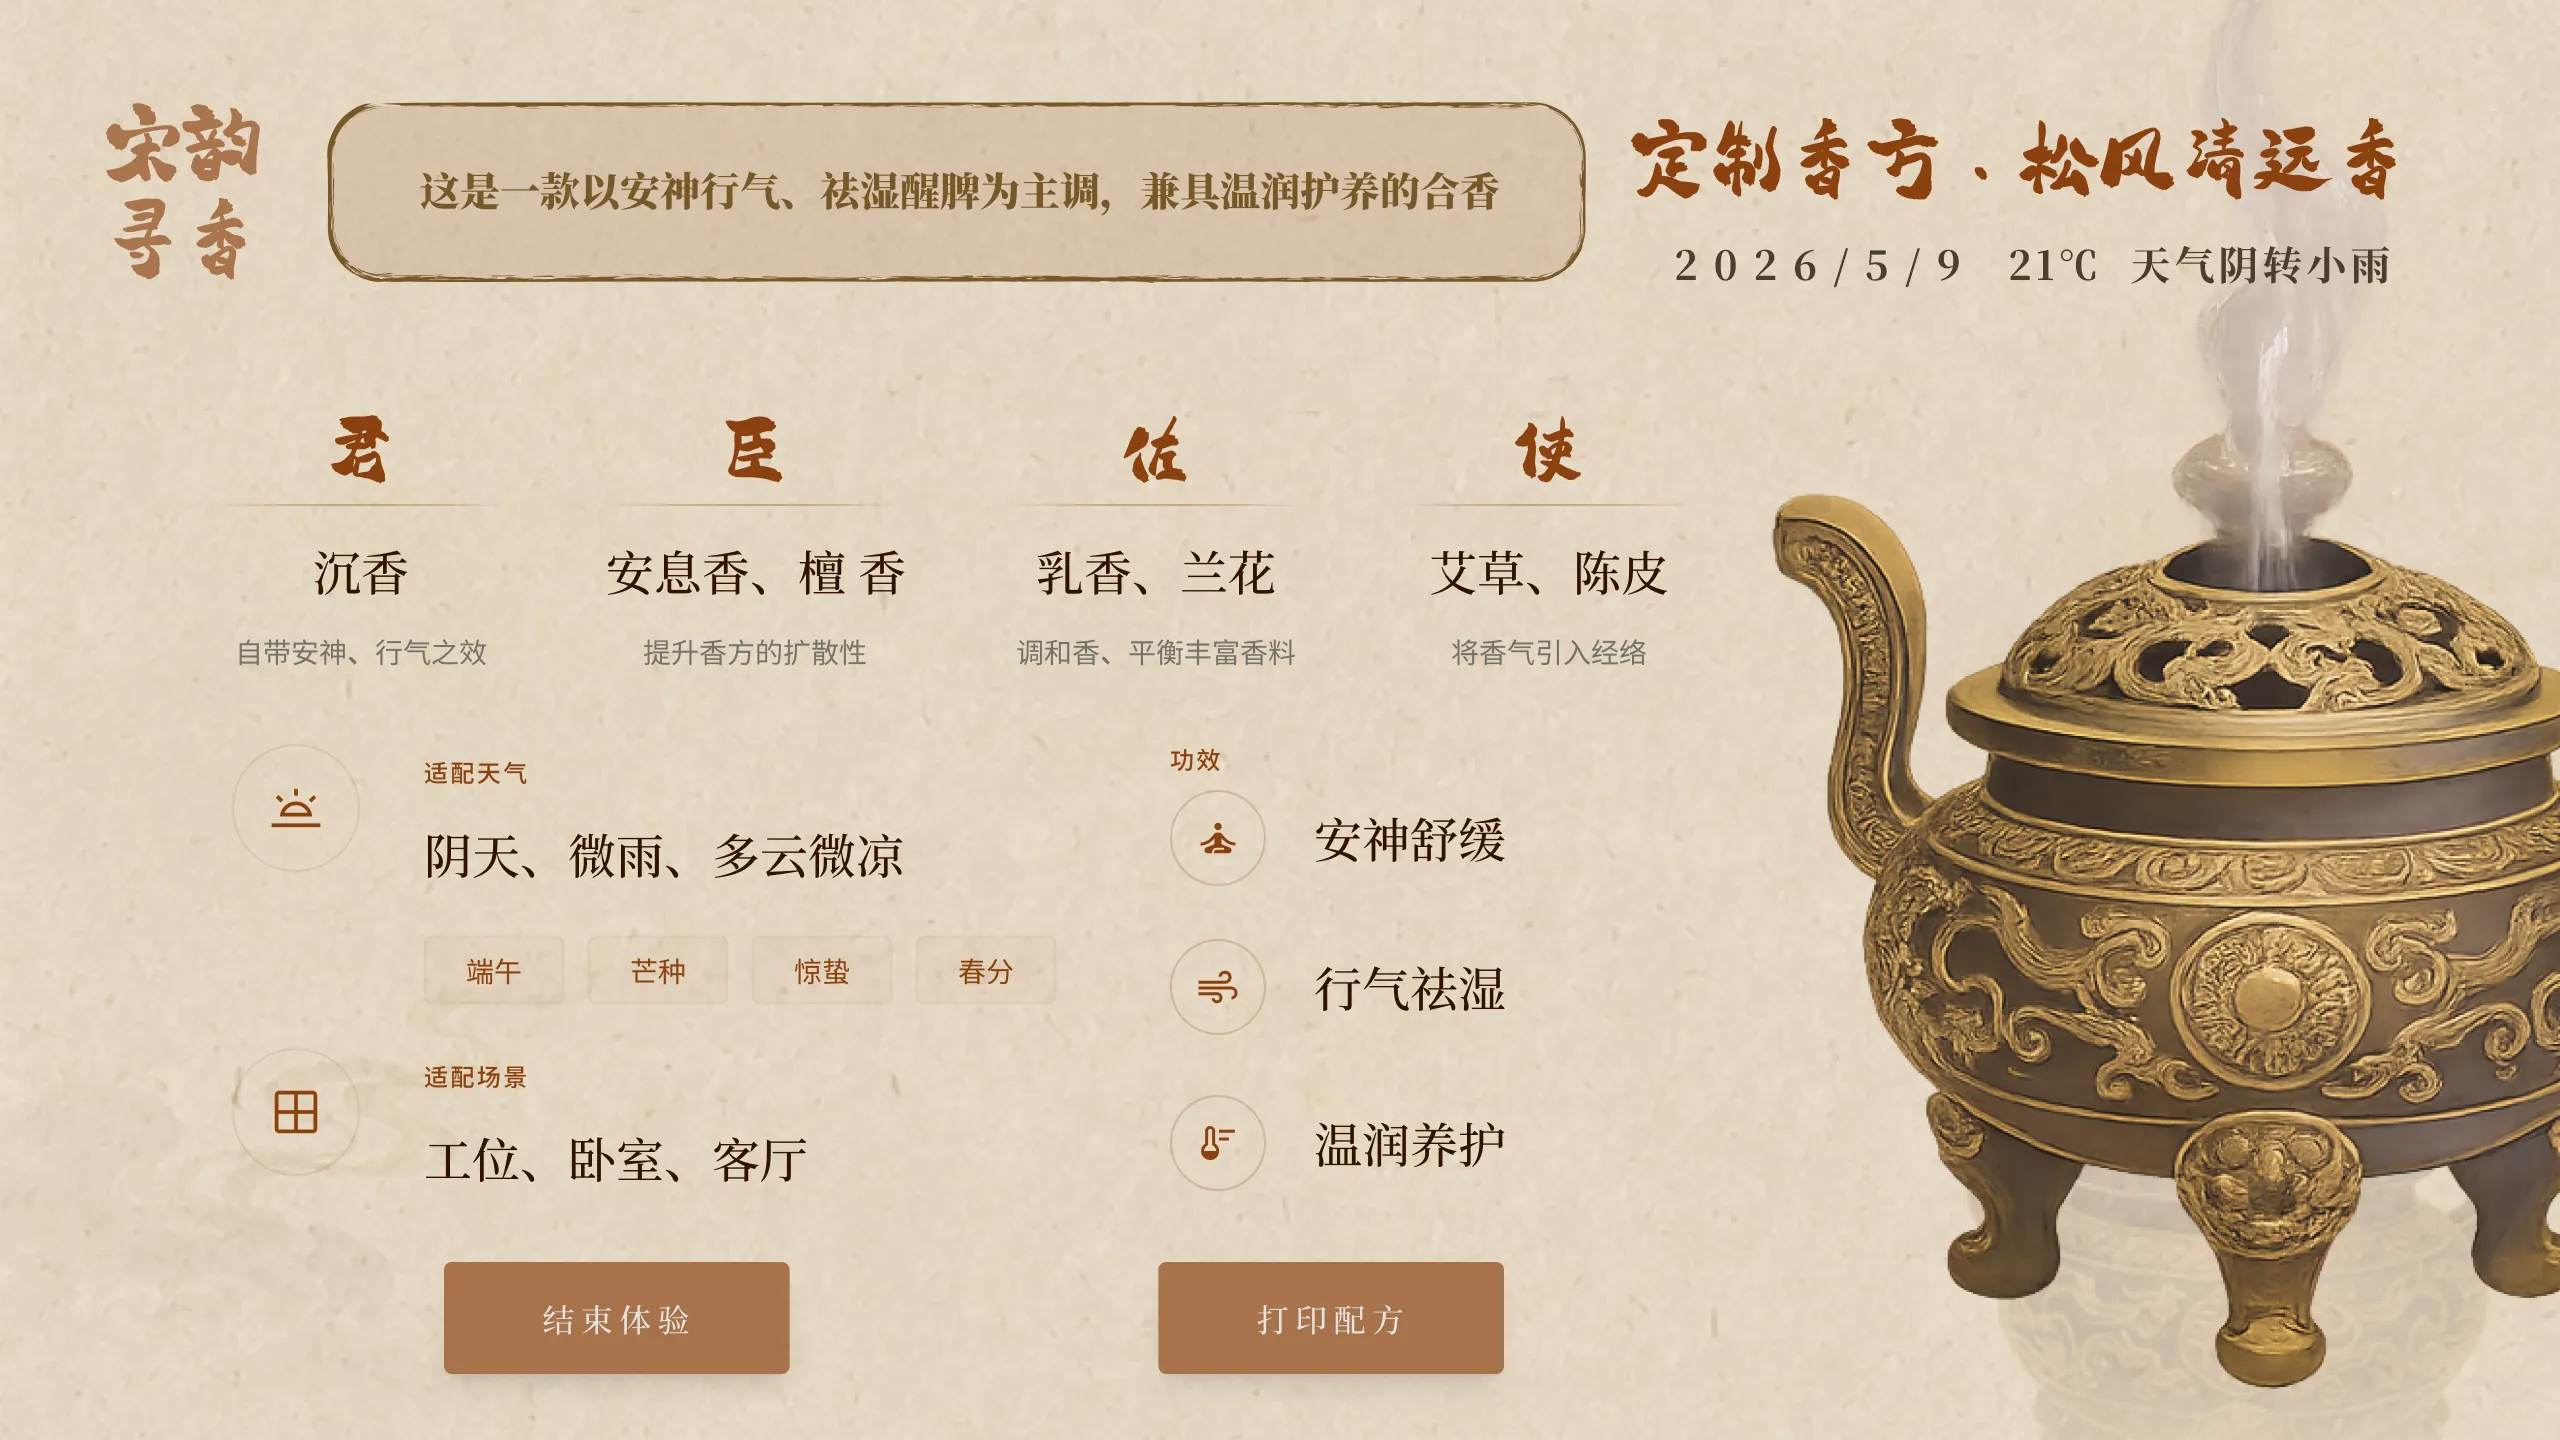
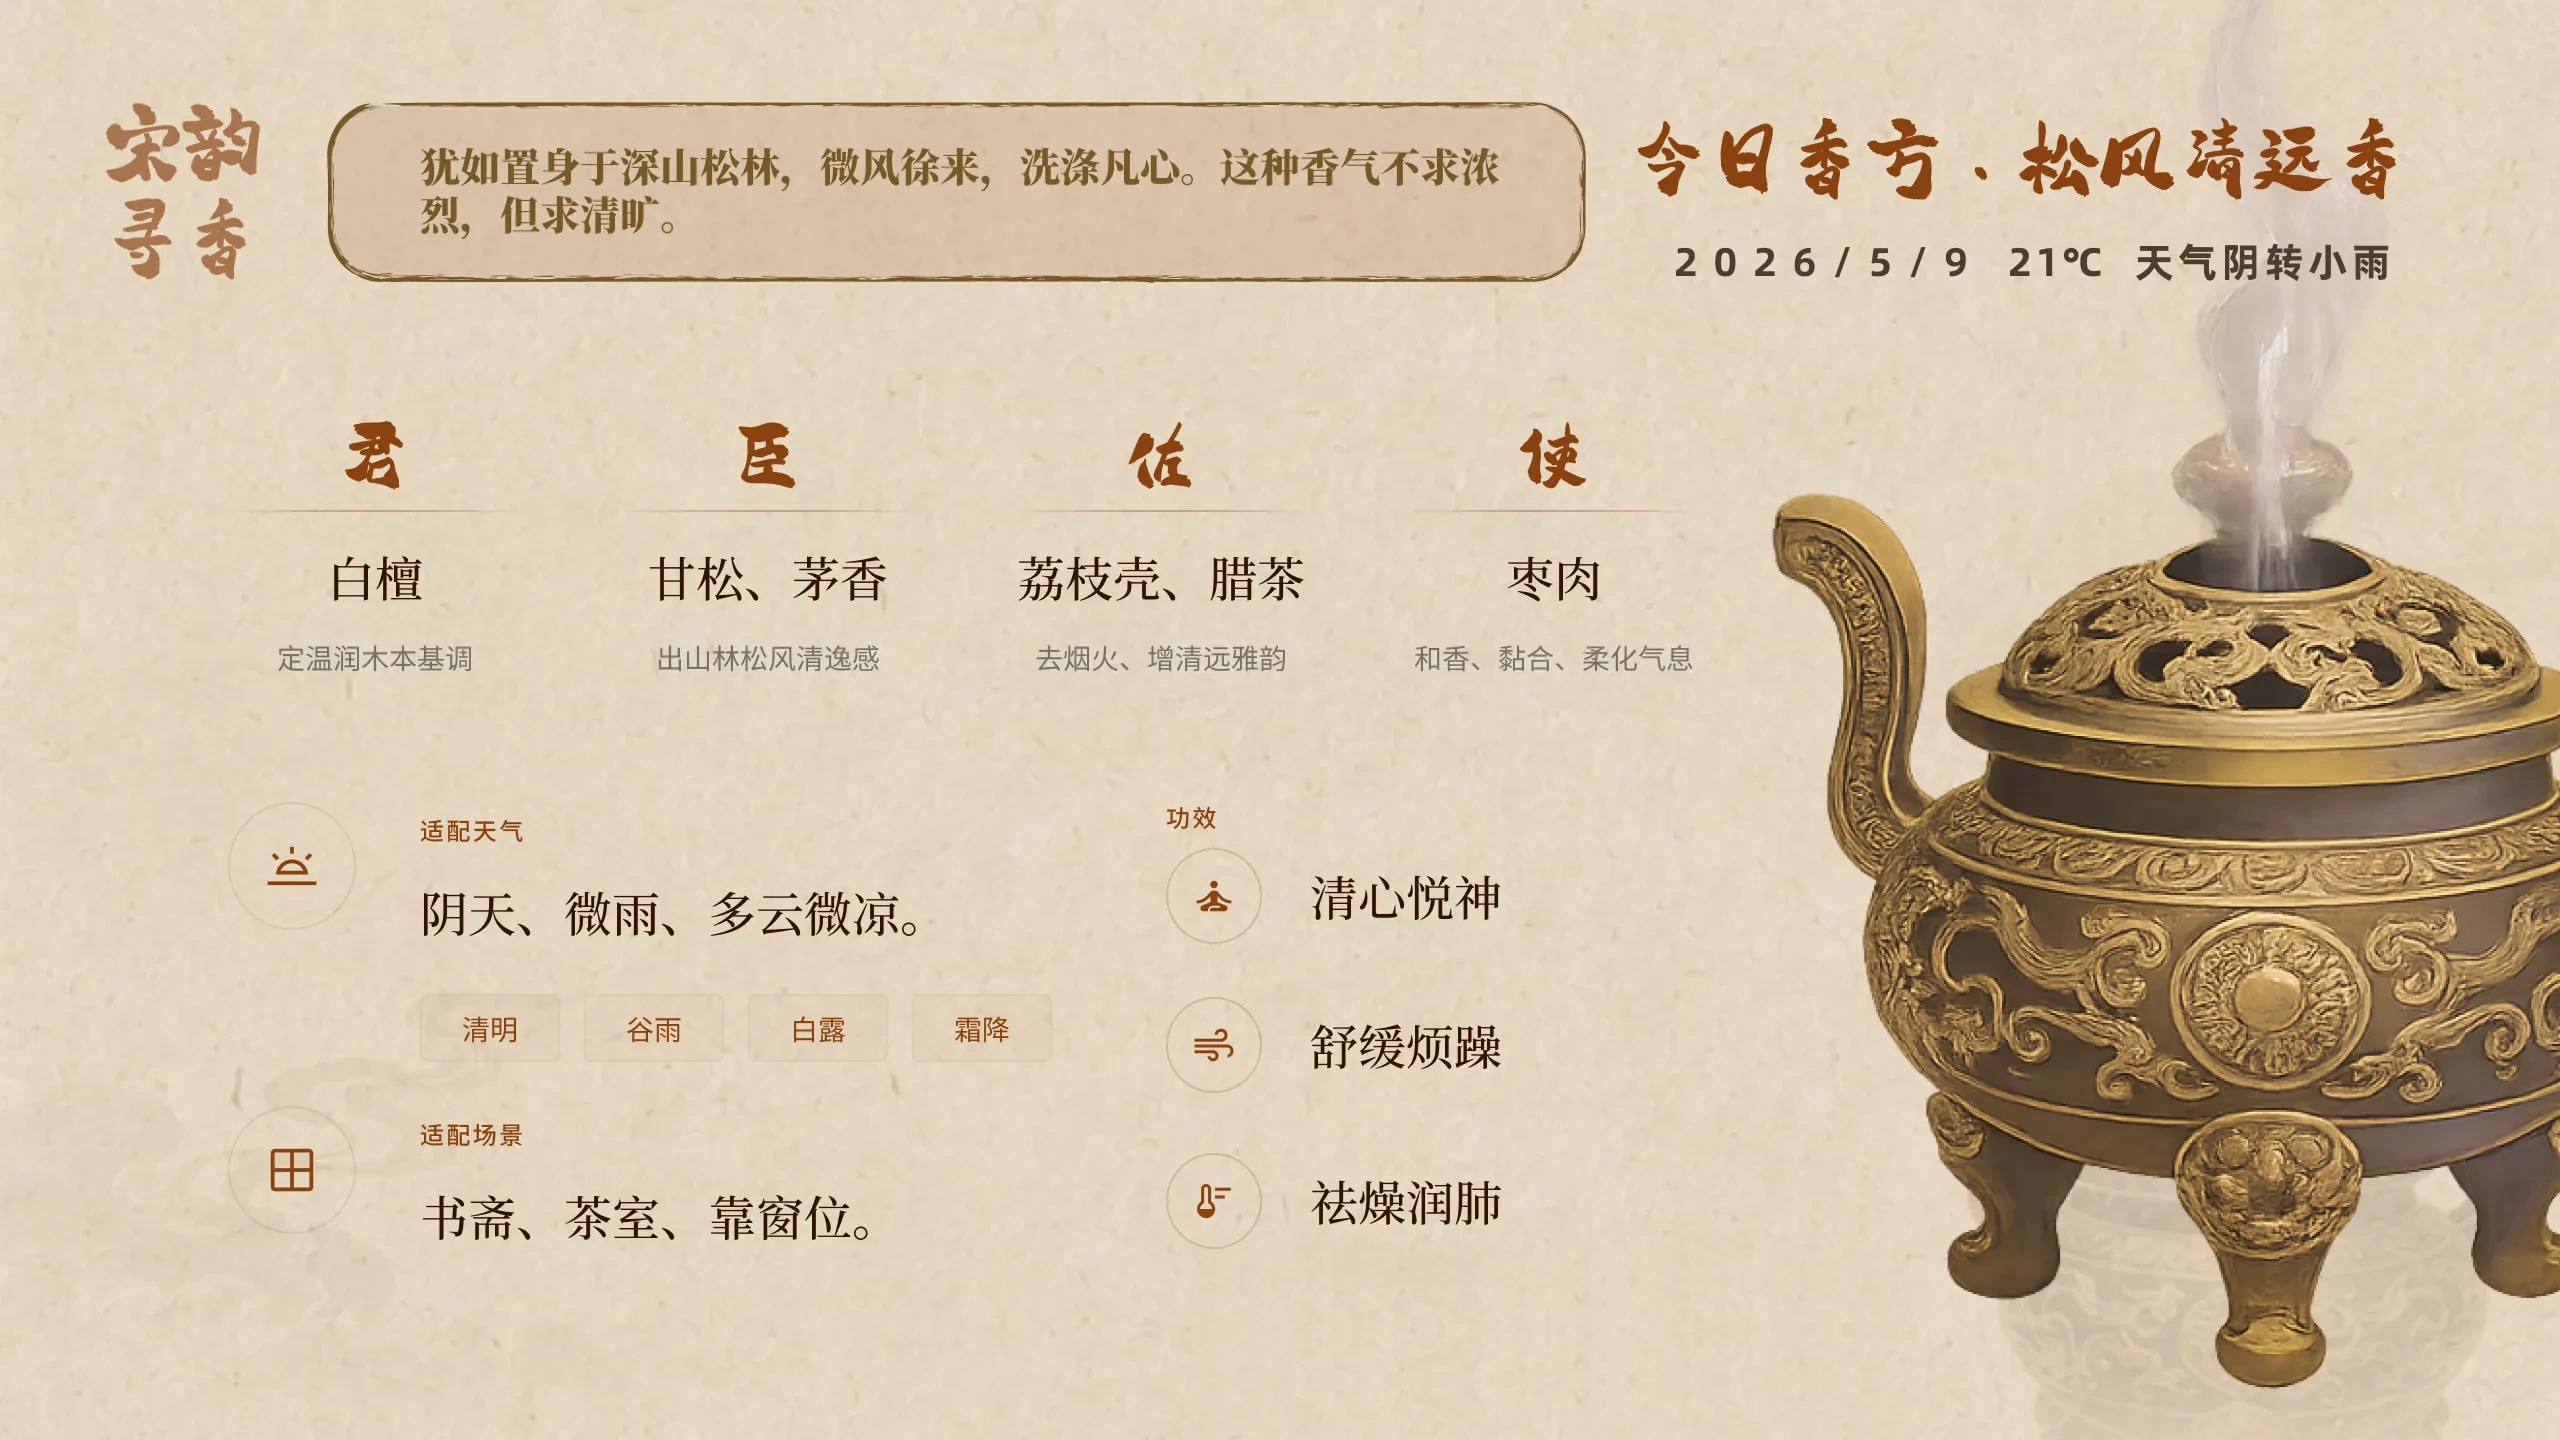
style: 使用场景提亮降到 1.12——框内宣纸到白即可，人物只微亮，避免发光感

diff --git a/projects/songyun/index.html b/projects/songyun/index.html
@@ -89,7 +89,7 @@ body{font-family:"Songti SC","STSong","Noto Serif SC",serif;-webkit-font-smoothi
 .scene-card__art{transition:filter .38s var(--ease)}
 .scene-card:hover .scene-card__art,
 .scene-card.is-on .scene-card__art{
-  filter:brightness(var(--scene-lit,1.2));
+  filter:brightness(var(--scene-lit,1.12));
 }
 
 /* 香料配方：悬停香气出详情（不可点击） */
